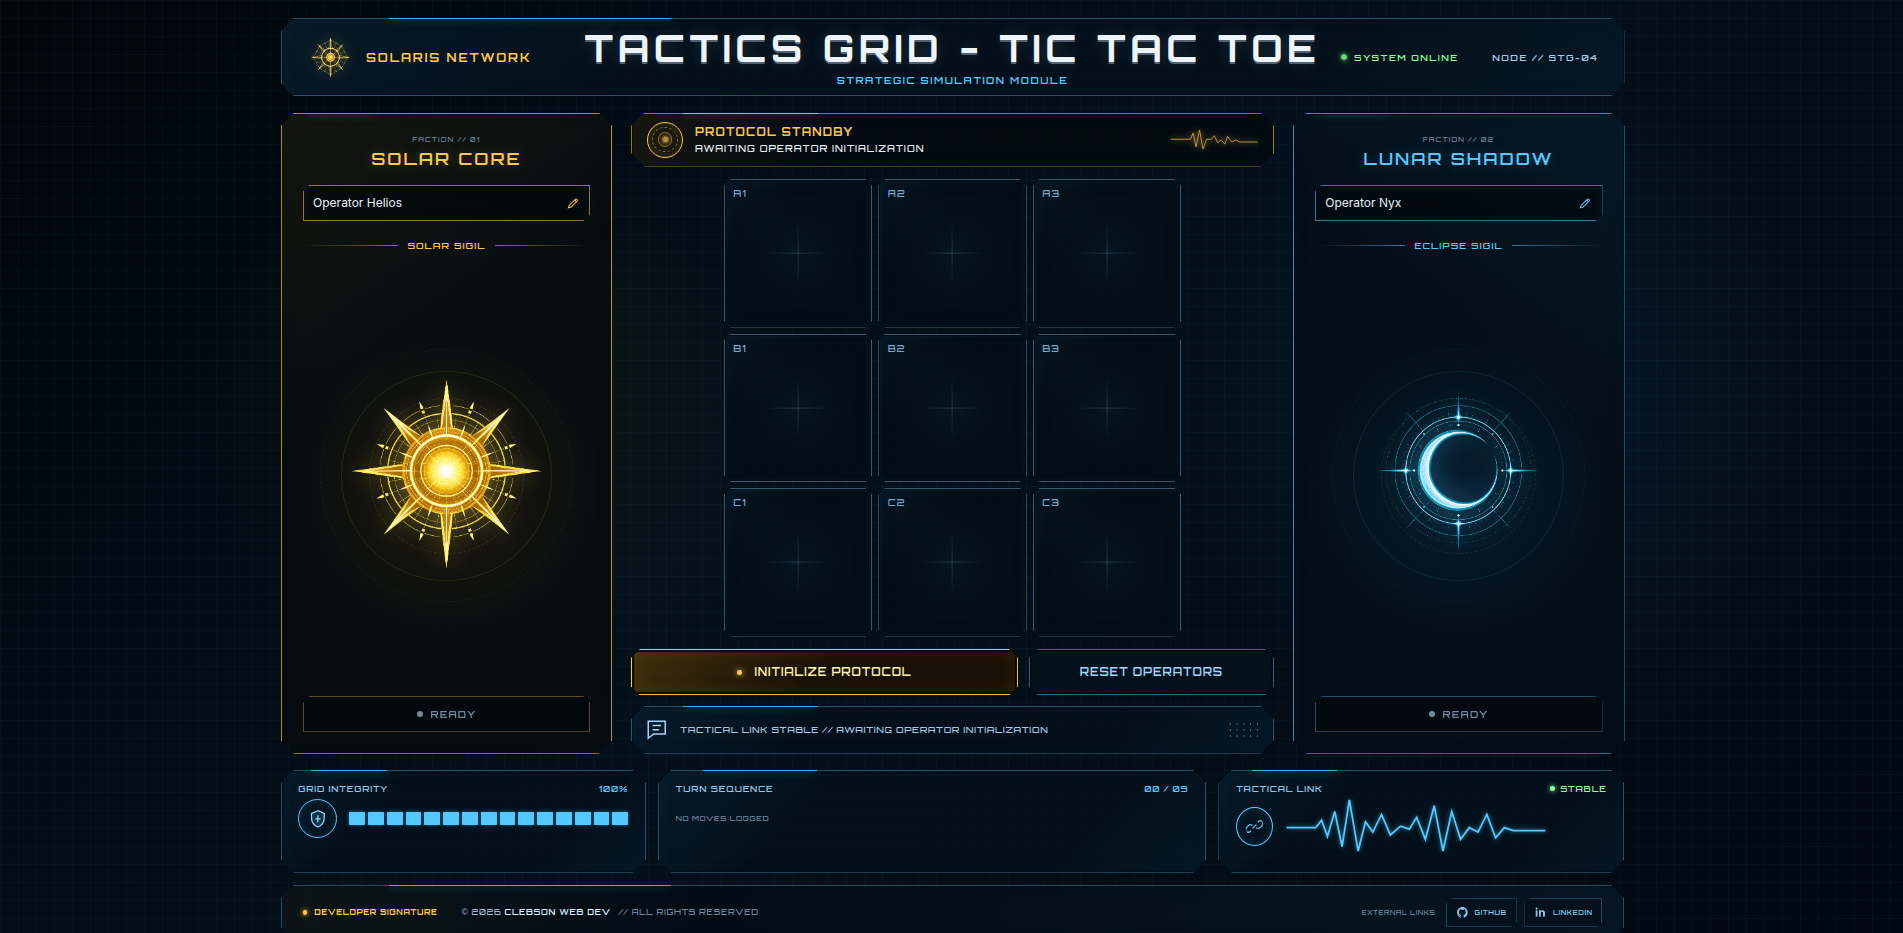
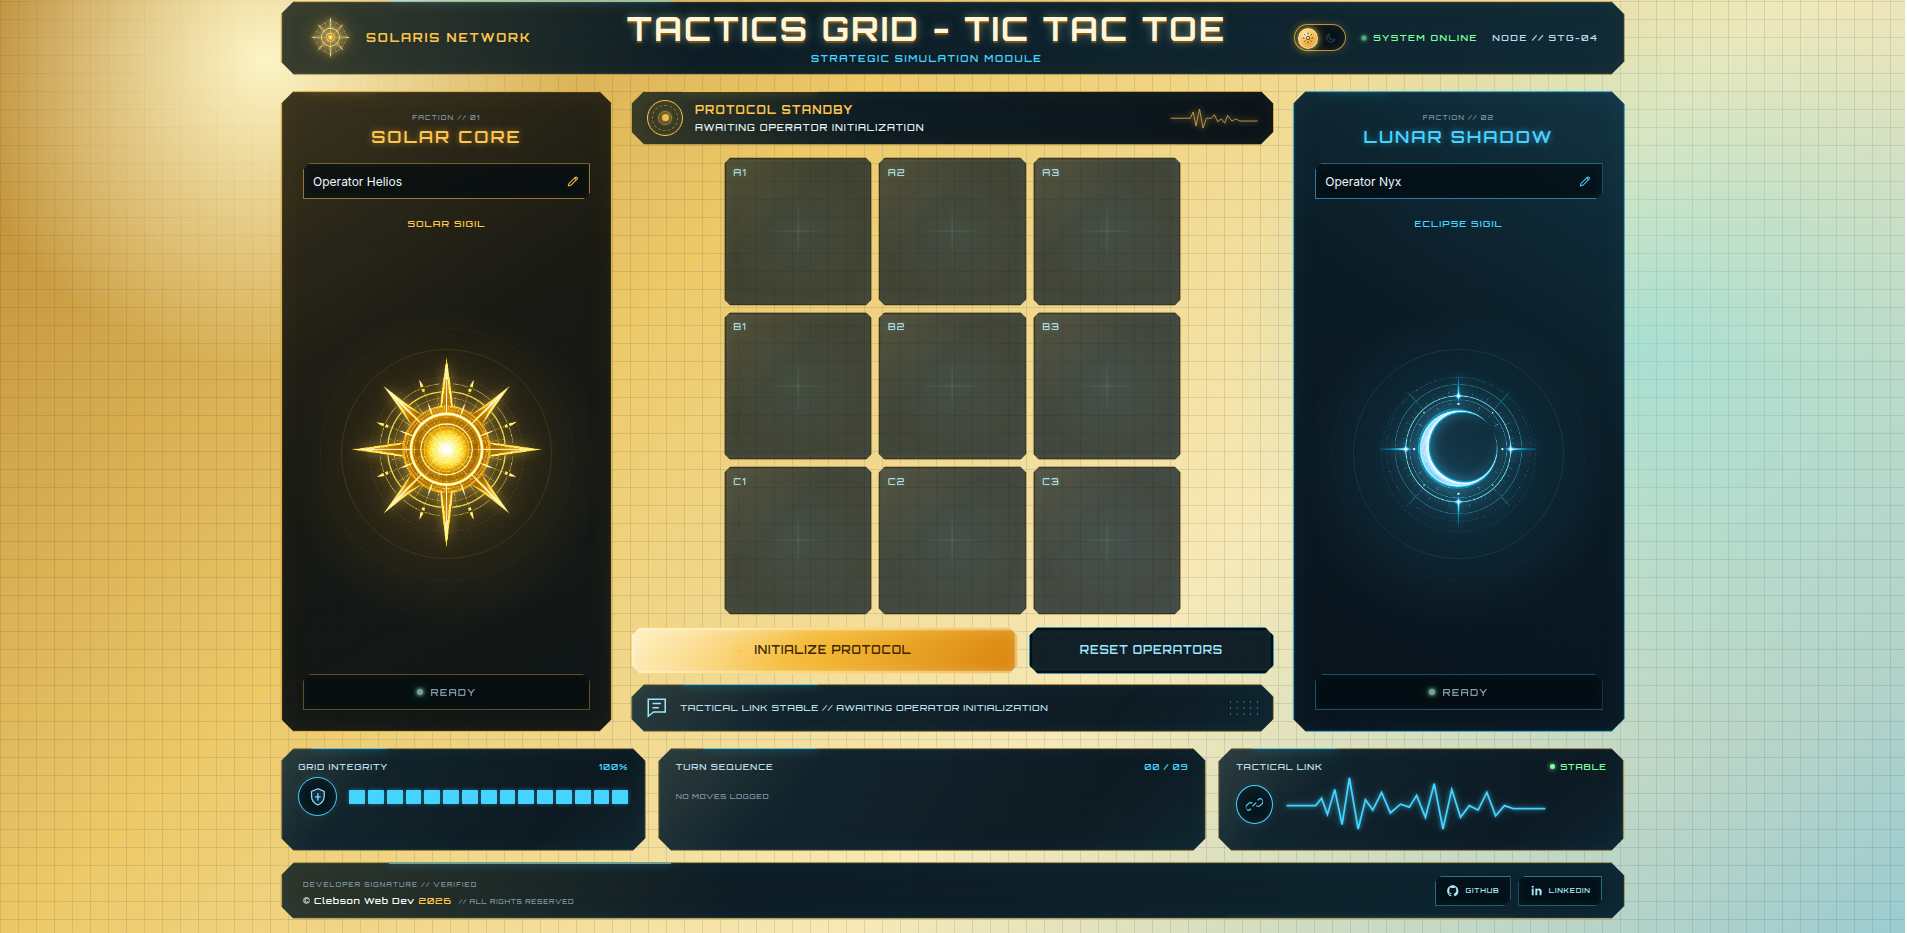
Include dual themes and latest UI updates on README

diff --git a/README.md b/README.md
@@ -6,7 +6,7 @@
 
 ### Strategic Simulation Module
 
-A responsive cyber-solar strategy game that transforms classic Tic Tac Toe into a nine-node training protocol for Solaris Network operators.
+A responsive, dual-theme cyber-solar strategy game that transforms classic Tic Tac Toe into a nine-node training protocol for Solaris Network operators.
 
 [![HTML5](https://img.shields.io/badge/HTML5-semantic-E34F26?logo=html5&logoColor=white)](./index.html)
 [![CSS3](https://img.shields.io/badge/CSS3-responsive-1572B6?logo=css3&logoColor=white)](./style.css)
@@ -33,7 +33,7 @@ Rather than presenting the experience as a conventional game of Xs and Os, the p
 - **Solar Core** — represented by a radiant gold solar sigil.
 - **Lunar Shadow** — represented by a luminous cyan eclipse sigil.
 
-The project focuses on object-oriented JavaScript concepts, encapsulated state, separation of concerns, DOM rendering, responsive interface design, and accessible interaction patterns—all without a framework or external runtime dependency.
+The project focuses on object-oriented JavaScript concepts, encapsulated state, separation of concerns, DOM rendering, responsive interface design, accessible interaction patterns, and persistent interface preferences—all without a framework or external runtime dependency.
 
 ---
 
@@ -49,8 +49,15 @@ The project focuses on object-oriented JavaScript concepts, encapsulated state, 
 - **Recent-move and victory highlighting** for clear visual feedback.
 - **Start, restart, and operator-reset controls** with distinct responsibilities.
 - **Keyboard navigation** across available grid nodes.
+- **Solar and Lunar interface modes** with distinct visual environments:
+  - Lunar Mode uses the original deep-space mission-control HUD.
+  - Solar Mode combines a luminous champagne-gold environment with obsidian command glass, cyan energy accents, and controlled luxury glow.
+- **Persistent theme preference** stored locally and restored on future visits.
+- **State-safe theme switching** that does not interrupt an active simulation or reset the board.
+- **Accessible theme control** with dynamic labels, `aria-pressed`, and synchronized browser theme color.
+- **Responsive expanded module heading** for `TACTICS GRID - TIC TAC TOE` without colliding with the system controls.
 - **Responsive layout** for desktop, tablet, and mobile screens.
-- **Dynamic copyright year** with GitHub and LinkedIn profile links.
+- **Developer signature footer** with a dynamic copyright year and animated GitHub and LinkedIn profile links.
 - **Accessible HTML structure** with labels, alternative text, focus states, and ARIA attributes.
 - **Encapsulated JavaScript architecture** with minimal global code.
 
@@ -62,10 +69,11 @@ The project focuses on object-oriented JavaScript concepts, encapsulated state, 
 | --- | --- | --- |
 | Structure | HTML5 | Semantic interface, forms, controls, and accessible content |
 | Styling | CSS3 | Responsive layouts, glass panels, HUD effects, animations, and design tokens |
-| Logic | Vanilla JavaScript (ES6+) | Game state, turn flow, outcome detection, rendering, and events |
+| Logic | Vanilla JavaScript (ES6+) | Game state, turn flow, outcome detection, rendering, events, theme persistence, and dynamic footer content |
 | Layout | CSS Grid and Flexbox | Three-column desktop composition and responsive reflow |
 | Typography | Orbitron and Inter | Futuristic headings and readable interface text |
 | Assets | PNG and inline SVG | Solaris branding, faction sigils, and interface icons |
+| Browser APIs | DOM API and Web Storage API | Interface rendering, events, and local theme preference |
 | Version control | Git and GitHub | Source control, commit history, and collaboration |
 | Deployment | GitHub Pages | Static production hosting |
 | Development | Visual Studio Code | Editing, debugging, and local development |
@@ -122,11 +130,14 @@ This project does not require environment variables or sensitive configuration.
 ## Usage
 
 1. Enter or edit the Solar Core and Lunar Shadow operator names.
-2. Select **Initialize Protocol** to activate the simulation.
-3. Choose an available grid node when your faction is active.
-4. Continue alternating turns until a faction secures three aligned nodes or the grid reaches a stalemate.
-5. Select **Restart Simulation** to clear the grid while keeping the current operators.
-6. Select **Reset Operators** to restore the default names and return the module to standby.
+2. Use the Sun/Moon control in the system bar to choose **Solar Mode** or **Lunar Mode**. The preference is saved automatically.
+3. Select **Initialize Protocol** to activate the simulation.
+4. Choose an available grid node when your faction is active.
+5. Continue alternating turns until a faction secures three aligned nodes or the grid reaches a stalemate.
+6. Select **Restart Simulation** to clear the grid while keeping the current operators.
+7. Select **Reset Operators** to restore the default names and return the module to standby.
+
+The theme can be changed before, during, or after a simulation without affecting the board, operators, turn history, or result.
 
 ### Default Operators
 
@@ -146,6 +157,8 @@ The JavaScript is organized around a factory function and single-instance module
 | `createPlayer()` | Factory function | Creates player objects with a name, marker, and faction |
 | `Gameboard` | IIFE module | Owns the private nine-cell array and validates marker placement |
 | `GameController` | IIFE module | Controls turns, players, wins, stalemates, and simulation phases |
+| `ThemeController` | IIFE module | Applies Solar or Lunar Mode, updates accessible control state, synchronizes browser theme color, and stores the selected preference |
+| `FooterController` | IIFE module | Inserts the current year into the developer signature |
 | `DisplayController` | IIFE module | Renders state, updates the DOM, and handles user interactions |
 
 ### State Flow
@@ -162,6 +175,8 @@ Gameboard
 Updated state rendered to the DOM
 ```
 
+`ThemeController` operates independently from the game-state pipeline. This separation allows the visual environment to change without mutating the board or interrupting the simulation.
+
 ### Project Structure
 
 ```text
@@ -170,7 +185,7 @@ Tic-Tac-Toe/
 │   ├── lunar-shadow-sigil.png
 │   ├── solar-core-sigil.png
 │   ├── solaris-network-emblem.png
-│   └── solaris-tactics-grid-preview.png
+│   └── tictactoe_preview.png
 ├── index.html
 ├── style.css
 ├── script.js
@@ -182,15 +197,29 @@ Tic-Tac-Toe/
 
 ## Design System
 
-The interface follows the shared visual language of **The Solaris Network**:
+The interface follows the shared visual language of **The Solaris Network** while offering two complementary visual environments.
 
-- Deep navy and near-black cosmic backgrounds.
-- Solar gold for Solar Core states and controls.
-- Cyan and cold blue for Lunar Shadow and system telemetry.
-- Translucent glass panels with thin illuminated borders.
+### Lunar Mode
+
+- Deep navy and near-black cosmic background.
+- Emissive dark glass panels and cinematic mission-control depth.
+- Solar-gold faction highlights and cyan system telemetry.
+- Restrained atmospheric glow against the dark environment.
+
+### Solar Mode
+
+- Luminous champagne-gold and pale cyan environmental lighting.
+- Deep obsidian command panels that preserve contrast and interface depth.
+- Brighter gold edging, controlled cyan energy glow, and metallic shadows.
+- A premium daylight Solaris identity rather than a simple color inversion.
+
+### Shared design language
+
 - Angular clipped corners and geometric interface elements.
-- Subtle grid textures, orbit lines, waveforms, and atmospheric glows.
+- Subtle grid textures, orbit lines, waveforms, and atmospheric effects.
 - Orbitron typography for headings and Inter for controls and body copy.
+- CSS custom properties for theme tokens, faction colors, borders, and glow effects.
+- Responsive system-bar proportions that accommodate the expanded `TACTICS GRID - TIC TAC TOE` heading.
 - High contrast, generous spacing, and restrained animation.
 
 The interface is intentionally optimistic and sophisticated rather than dystopian, retro-arcade, or excessively neon.
@@ -207,10 +236,13 @@ Accessibility-conscious implementation details include:
 - Live status announcements using `aria-live`.
 - Visible keyboard focus styles.
 - Arrow-key navigation between available nodes.
+- An accessible theme button with a descriptive action label and synchronized `aria-pressed` state.
+- Theme switching that preserves the current simulation state.
 - Meaningful alternative text for faction artwork.
 - Empty alternative text for decorative imagery.
 - Reduced animation when `prefers-reduced-motion` is enabled.
-- External links protected with `rel="noopener noreferrer"`.
+- Developer social links with explicit accessible names.
+- External links opened in a new tab and protected with `rel="noopener noreferrer"`.
 
 ---
 
@@ -238,6 +270,12 @@ node --check script.js
 | Reset operators | Default names return and the module enters standby |
 | Enter custom operator names | Names appear in simulation messages and remain locked during play |
 | Navigate with the keyboard | Focus moves between available nodes |
+| Switch to Solar Mode | The warm luminous environment and high-contrast luxury HUD are applied |
+| Switch themes during a game | Board state, operators, active turn, and move history remain unchanged |
+| Reload after selecting a theme | The most recently selected theme is restored |
+| Inspect the theme control | Its label, `aria-pressed` value, and browser theme color reflect the active mode |
+| Check the footer | The current year is displayed and both social links open the correct external profiles |
+| View the expanded desktop heading | The title and theme control remain separated without overlap |
 | Resize the viewport | Panels reflow without overlapping controls or board content |
 
 Before deployment, test the current versions of Chrome and Firefox and verify at least one mobile viewport.
@@ -320,4 +358,3 @@ Keep pull requests focused and avoid including unrelated formatting or refactori
 ## License
 
 This project is distributed under the **MIT License**. See the [`LICENSE`](./LICENSE) file for details.
-
